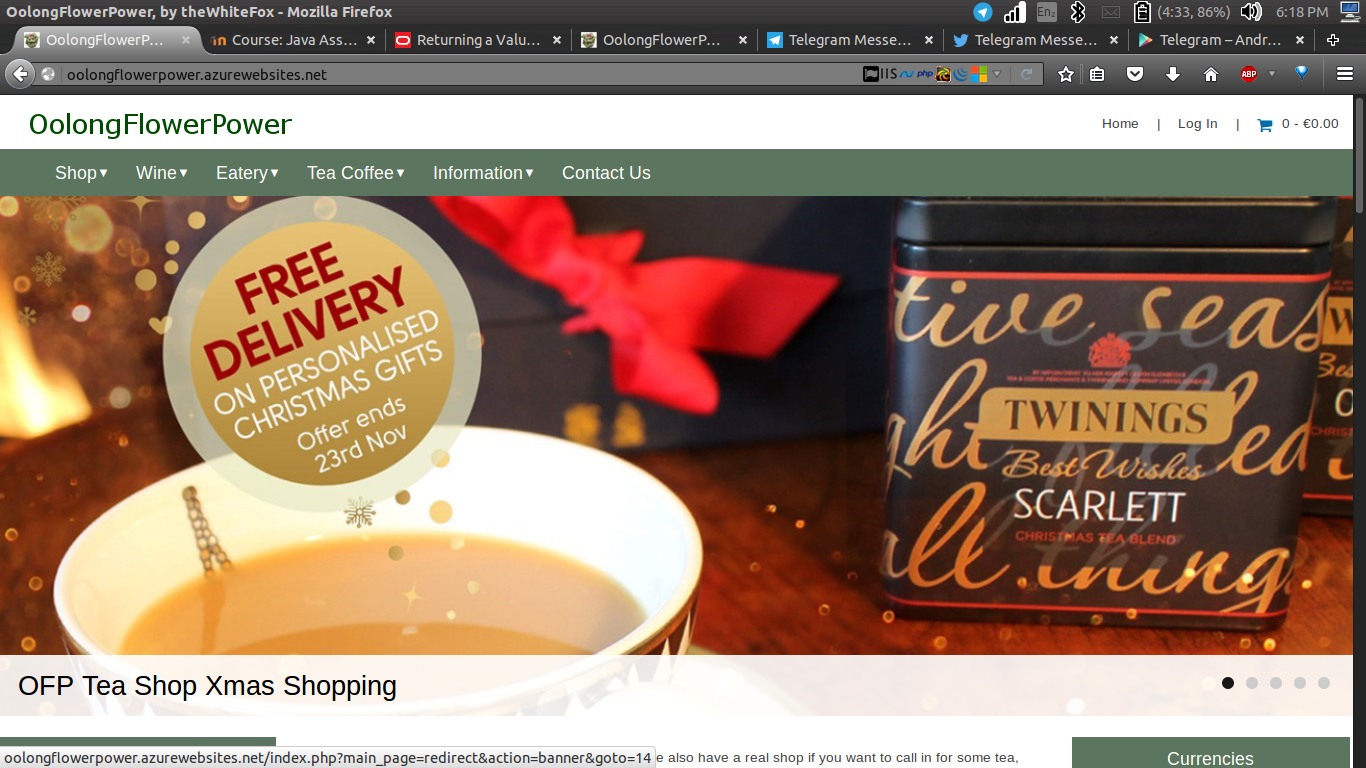
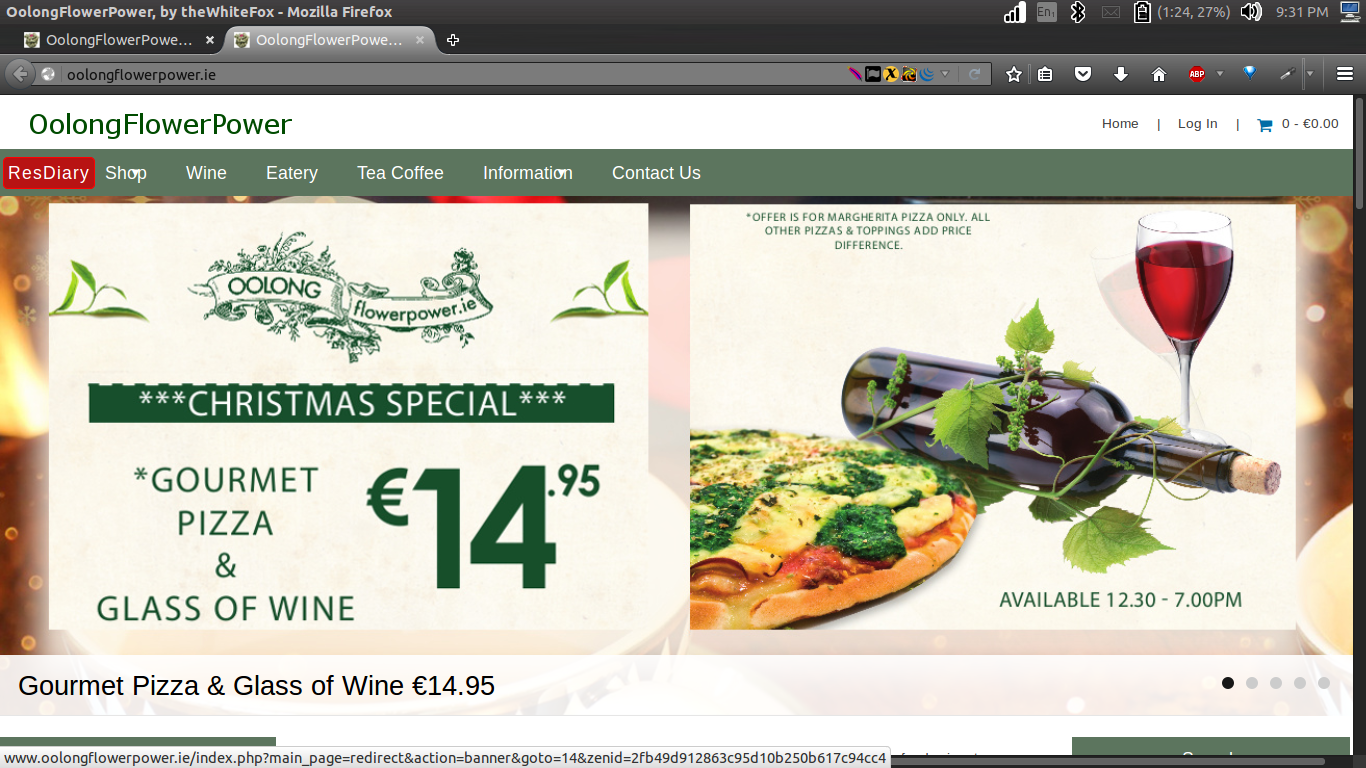
project change :santa:

diff --git a/index.html b/index.html
@@ -188,7 +188,7 @@
 					<img class="img-responsive" src="img/project-ofp.png" alt="">
 					<figcaption>
 						<h2>
-							<a class="project-head" href="http://oolongflowerpower.azurewebsites.net/">OFP Tea Shop</a>
+							<a class="project-head" href="http://oolongflowerpower.ie/">OFP Tea Shop</a>
 						</h2>
 						<p class="project">PHP5, MySQL, HTML5, CSS3, JavaScript, Zencart, PayPal, Photoshop  Mock-ups.
 						</p>
